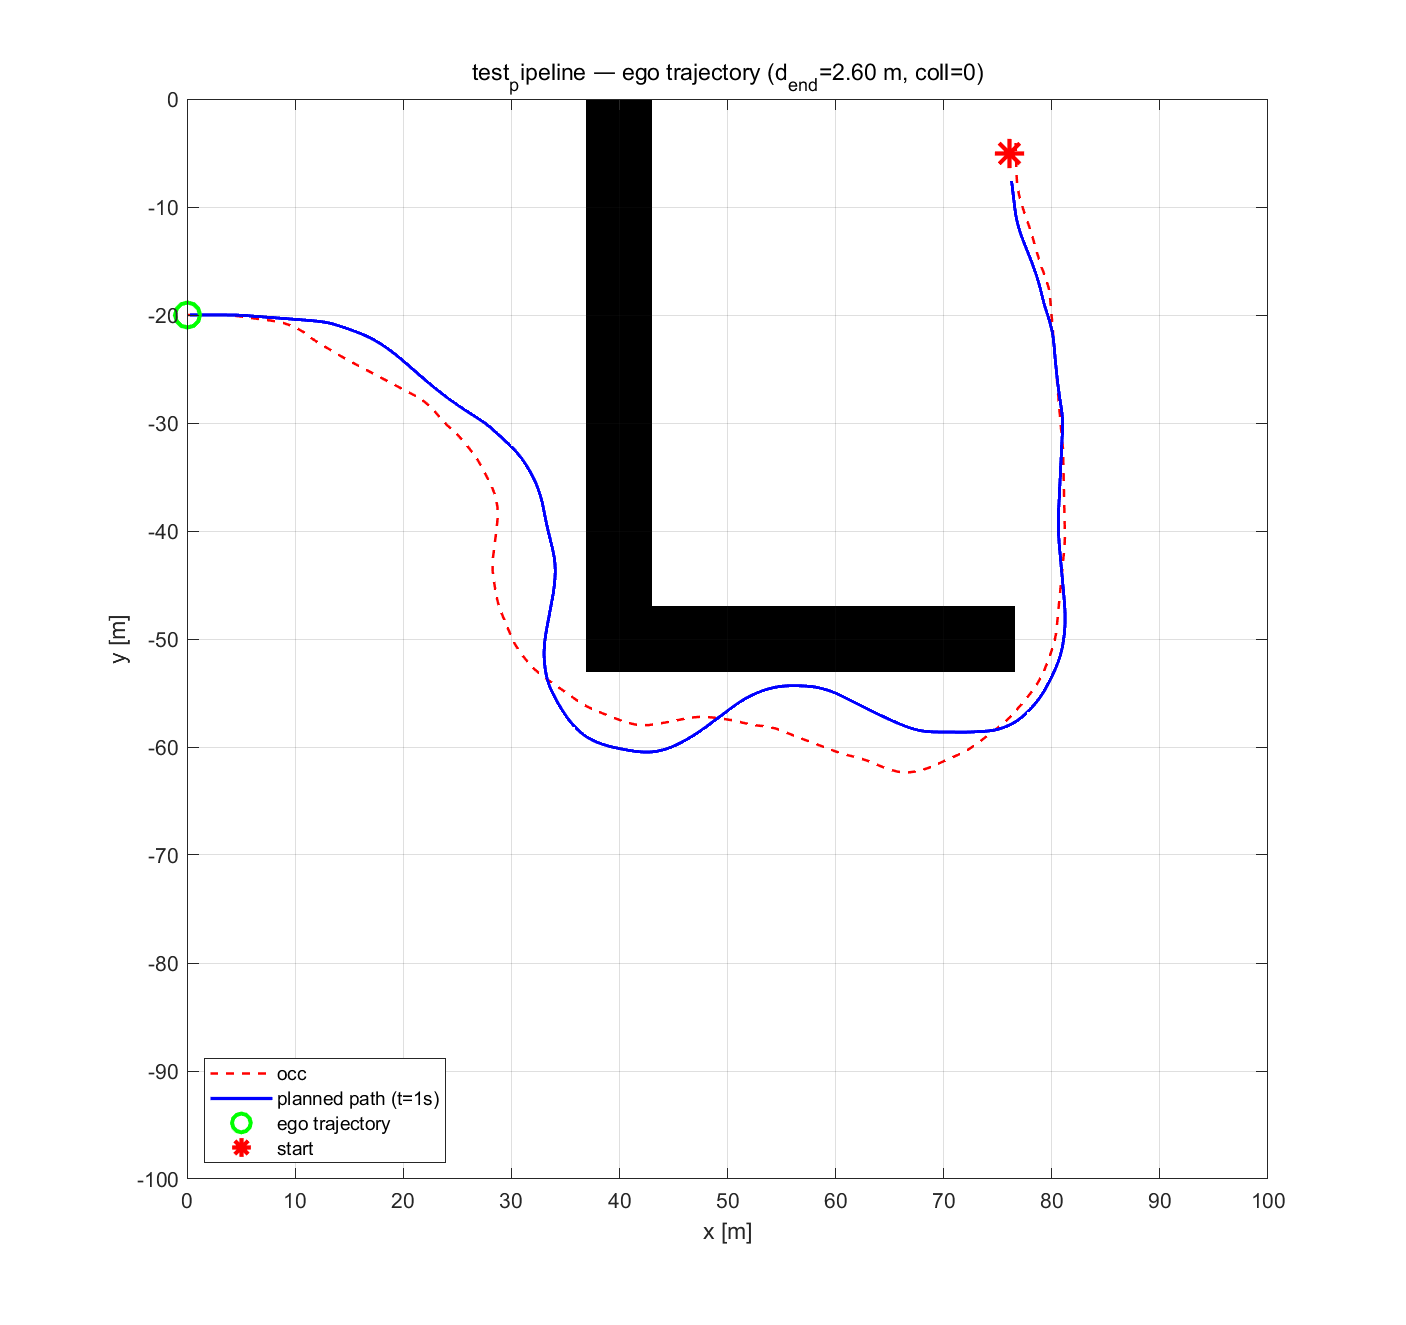
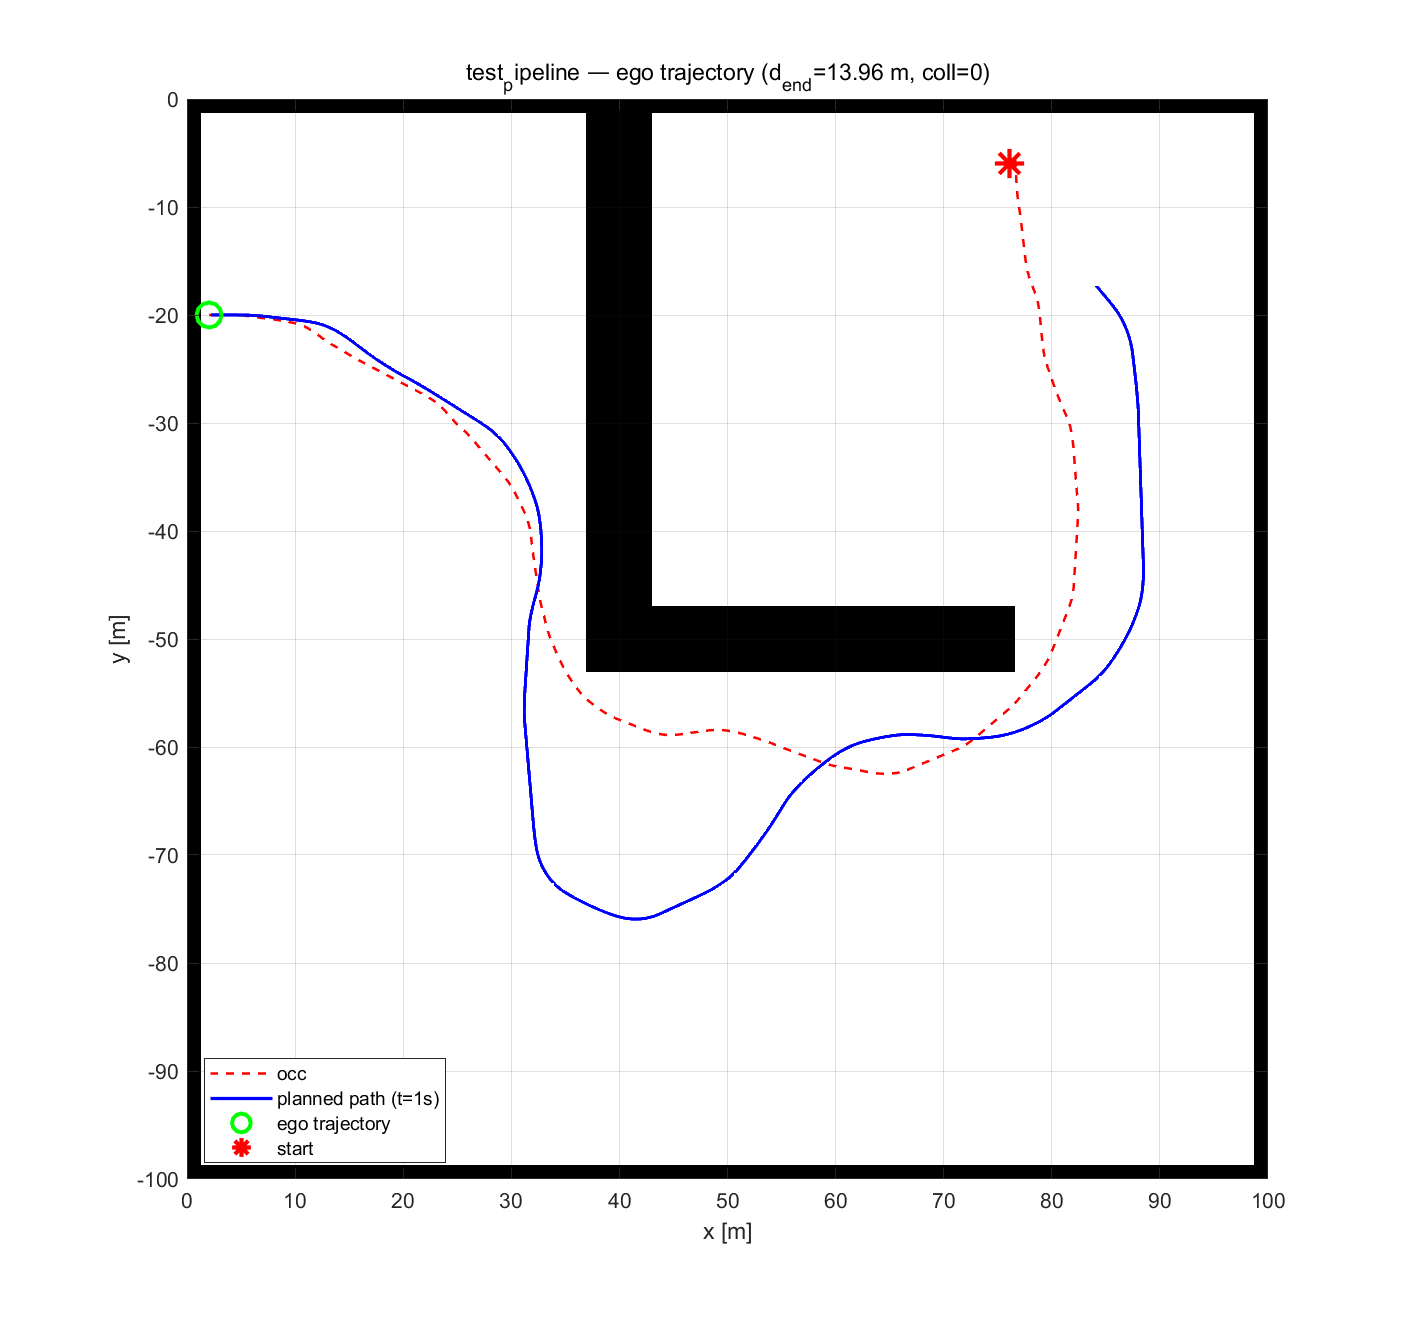
fix(day4_5): inflate road boundary + push box inside the lot
The previous box-goal run hit "Vehicle leaves road at y=2.5" because
the 6 m goal box, anchored at T00 rear bumper (76.1, -5), extended
+y by 6 m → y in [-5, +1].  Half of it sat outside the y=0 road edge,
and Hybrid A* legitimately tried to align the ego into a region the
road did not actually cover.

generate_map.m: in addition to flagging cells outside the polygon,
flag cells WITHIN the polygon whose distance to any polygon edge is
less than EGO_W/2 + SAFETY_MARGIN (1.75 m).  This carves a buffer
along the road perimeter so the planner never places the ego centre
within ego-half-width + safety of the edge.  Helper added:
  - dist_to_polygon_edge: minimum distance to any segment
  - point_to_segment: classic 2D point-segment distance

Day4_5_Scenario_1.slx (Constant5): -5 -> -6 so the goal box rear
bumper sits 1 m inside the lot.  The 6 m box then occupies y in
[-6, 0], entirely inside the road, with ego comfortably clear of
the inflated edge when aligned.

test_pipeline.m: ego spawn moved from (0, -20) to (2, -20) so it is
not already inside the new inflation band (the real CarMaker TestRun
still spawns at (0, -20) — moving that is a separate scenario
decision).  Goal updated to (76.1, -6, pi/2).

Verified: test_pipeline 60 s closed-loop ends with collision=0, no
road-edge breach.  ego reaches the cruise corridor but needs more
time to settle into the box (covered by tasks B-3f-c/d next).

diff --git a/02_Carmaker_project/Practice_sample/src_cm4sl/dev/day4_5/generate_map.m b/02_Carmaker_project/Practice_sample/src_cm4sl/dev/day4_5/generate_map.m
@@ -111,16 +111,65 @@ end
 
 base_map = zeros(N, N, 'uint8');
 
+% Drivable margin: ego must stay this far inside the polygon boundary
+% so that the ego footprint never crosses the road edge.  Same inflation
+% as add_obstacle uses for trucks.
+inflate_m = c.EGO_W * 0.5 + c.SAFETY_MARGIN;
+
 for row = 1:N
     wy = y_max - (double(row) - 0.5) * res;
     for col = 1:N
         wx = x_min + (double(col) - 0.5) * res;
         if ~point_in_polygon(wx, wy, bx, by, M)
             base_map(row, col) = uint8(1);
+        else
+            % Inside the polygon — but reject cells whose distance to ANY
+            % polygon edge is less than the inflation radius.  This carves
+            % a buffer along the road perimeter so the planner never
+            % places the ego center within inflate_m of the edge.
+            if dist_to_polygon_edge(wx, wy, bx, by, M) < inflate_m
+                base_map(row, col) = uint8(1);
+            end
         end
     end
 end
 
+end
+
+function d_min = dist_to_polygon_edge(px, py, bx, by, M)
+%#codegen
+d_min = 1.0e9;
+j = double(M);
+for i = 1:double(M)
+    d_seg = point_to_segment(px, py, bx(j), by(j), bx(i), by(i));
+    if d_seg < d_min
+        d_min = d_seg;
+    end
+    j = i;
+end
+end
+
+function d = point_to_segment(px, py, ax, ay, qx, qy)
+%#codegen
+% Distance from point (px,py) to line segment (ax,ay)-(qx,qy).
+vx = qx - ax;
+vy = qy - ay;
+wx = px - ax;
+wy = py - ay;
+v2 = vx*vx + vy*vy;
+if v2 < 1.0e-9
+    d = hypot(px - ax, py - ay);
+    return;
+end
+t = (wx*vx + wy*vy) / v2;
+if t < 0.0
+    t = 0.0;
+elseif t > 1.0
+    t = 1.0;
+end
+cx = ax + t * vx;
+cy = ay + t * vy;
+d = hypot(px - cx, py - cy);
 end
 
 function inside = point_in_polygon(px, py, bx, by, M)

diff --git a/02_Carmaker_project/Practice_sample/src_cm4sl/dev/day4_5/test_pipeline.m b/02_Carmaker_project/Practice_sample/src_cm4sl/dev/day4_5/test_pipeline.m
@@ -20,8 +20,14 @@ if ~exist(figs, 'dir'); mkdir(figs); end
 c = map_const();
 
 % --- Scenario inputs ---
-ego = [0; -20; 0; 0];                 % x, y, yaw, v
-t00 = [76.1; -5; pi/2];
+% Ego starts slightly inside the parking lot so the road-edge inflation
+% (ego_w/2 + safety = 1.75 m) does not flag the spawn cell as occupied.
+% CarMaker TestRun still spawns at (0, -20); whether to move that too is
+% a separate scenario decision.
+ego = [2; -20; 0; 0];                 % x, y, yaw, v
+% Goal box rear bumper (now shifted 1 m inside the parking lot so the
+% full 6 m box stays clear of the y=0 road edge).
+t00 = [76.1; -6; pi/2];
 trucks_deg = [40 -12  90;
               40 -24  90;
               40 -36  90;